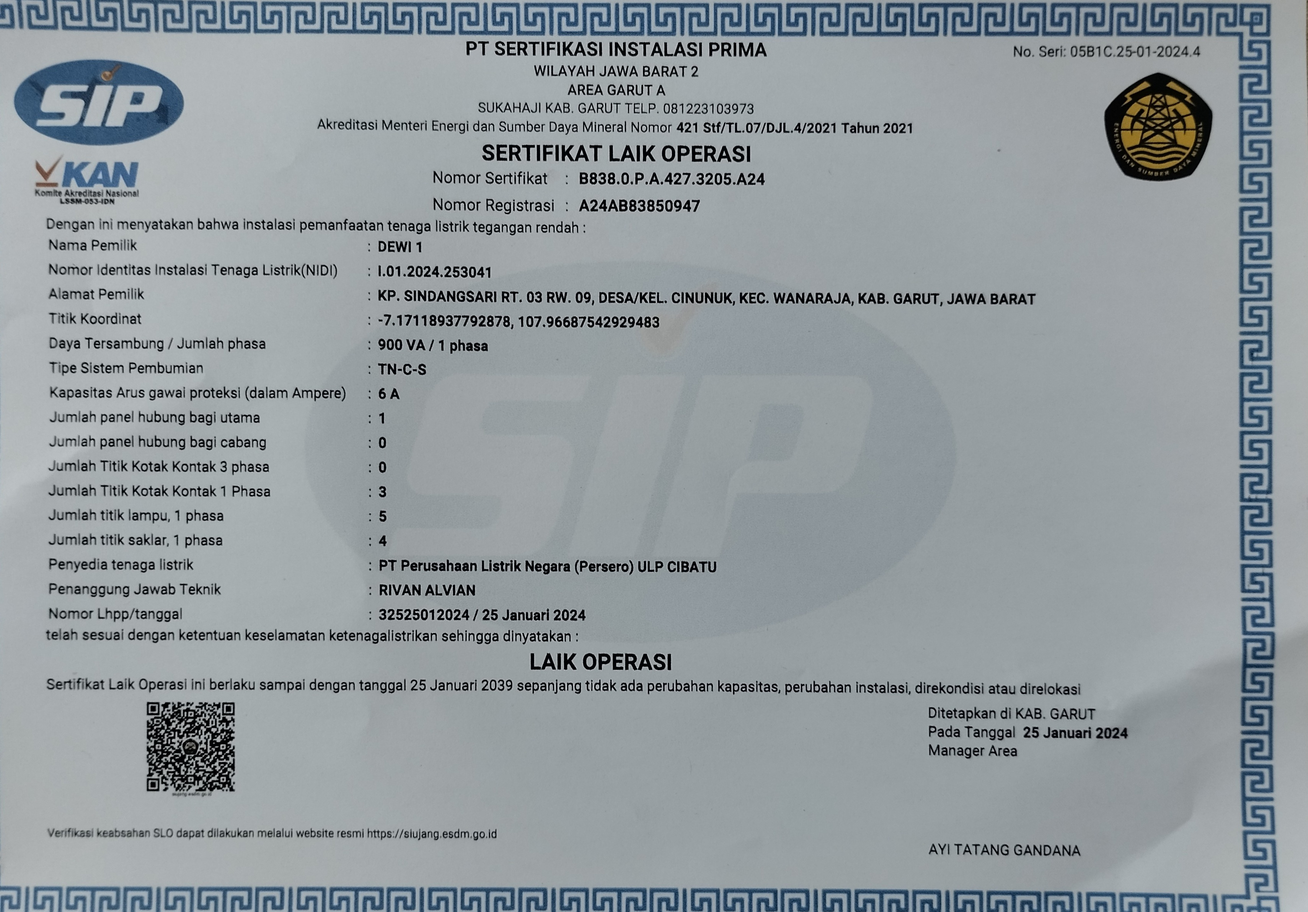
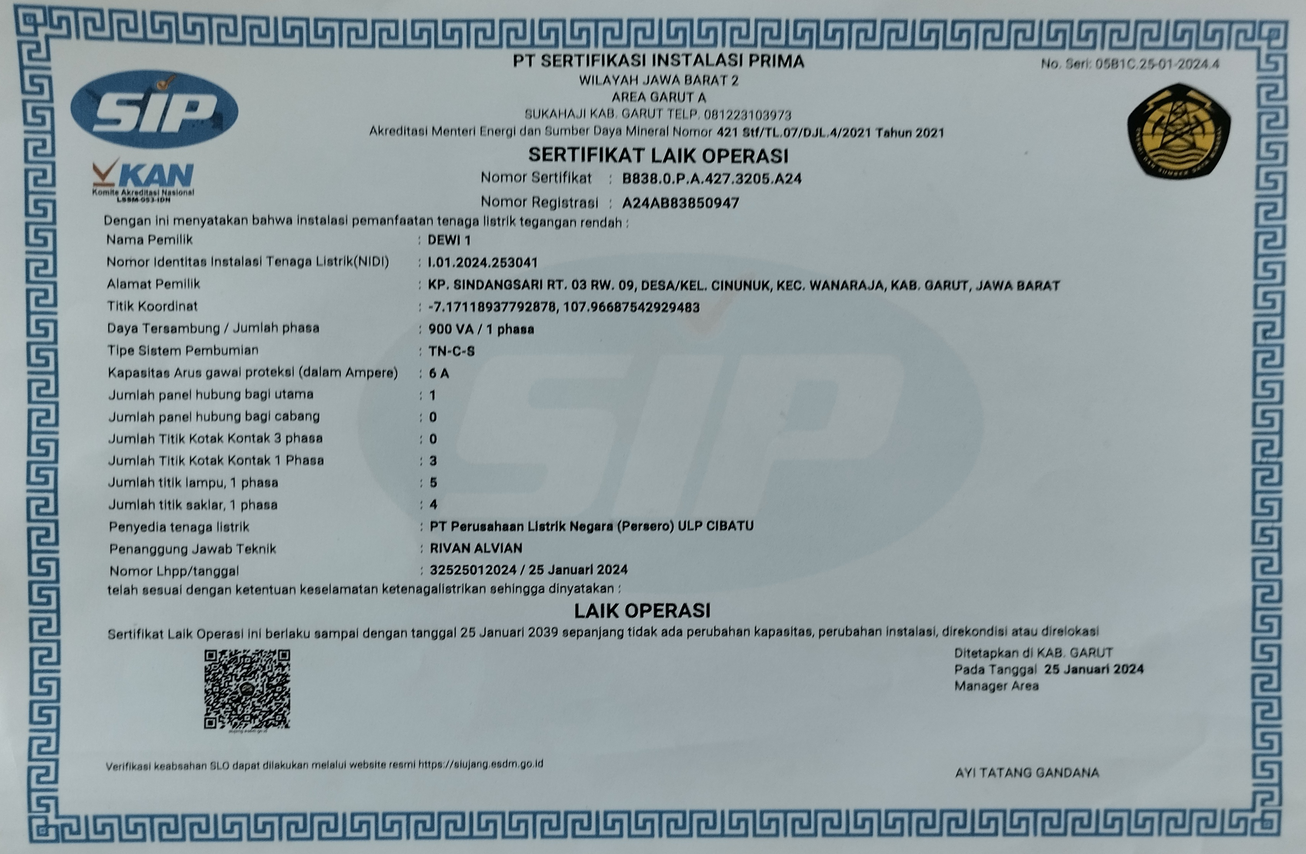
feat: succeded to enhance the accuracy prespective correction

Changed region(s): [[0.0, 0.0, 1.0, 1.0]]

diff --git a/src/PerspectiveCorrection.py b/src/PerspectiveCorrection.py
@@ -1,6 +1,34 @@
 import cv2
 import numpy as np
 
+# Resize image by width
+def resize_img_byW(width, img):
+    # Define the desired width or height
+    desired_width = width  # You can set your desired width
+    # Calculate the corresponding height to maintain the aspect ratio
+    aspect_ratio = img.shape[1] / img.shape[0] #lebar/tinggi
+    desired_height = int(desired_width / aspect_ratio)
+    # Resize the image
+    return cv2.resize(img, (desired_width, desired_height), interpolation=cv2.INTER_LINEAR)
+
+# Resize image by height
+def resize_img_byH(height, img):
+    # Define the desired height or height
+    desired_height = height  # You can set your desired height
+    # Calculate the corresponding height to maintain the aspect ratio
+    aspect_ratio = img.shape[1] / img.shape[0]
+    desired_width = int(aspect_ratio*desired_height)
+    # Resize the image
+    return cv2.resize(img, (desired_width, desired_height), interpolation=cv2.INTER_LINEAR)
+
+def resize(scale, img):
+    if(img.shape[0]>img.shape[1]):
+        img = resize_img_byH(scale, img)
+    else:
+        img = resize_img_byW(scale, img)
+    return img
+
+
 def drawline(lines, image):
     for line in lines:
         rho, theta = line[0]
@@ -147,12 +175,15 @@ def correctPerspective(image, points):
     hB = np.sqrt((tr[0]-br[0])**2 + (tr[1]-br[1])**2 )
     maxH = max(int(hA), int(hB))
     ds= np.array([[0,0],[maxW-1, 0],[maxW-1, maxH-1],[0, maxH-1]], dtype="float32")
-    transformMatrix = cv2.getPerspectiveTransform(r,ds)
+    transformMatrix = cv2.getPerspectiveTransform(r,ds,)
     scan = cv2.warpPerspective(image, transformMatrix, (maxW, maxH))
 
     return scan
 
-def process(image):
+def process(raw_image):
+    # 0. resize
+    image = resize(800, raw_image)
+
     # 1. Convert to grayscale
     gray = cv2.cvtColor(image, cv2.COLOR_BGR2GRAY)
     kernel = np.ones((5,5),np.uint8)
@@ -160,24 +191,37 @@ def process(image):
     blur =cv2.GaussianBlur(dilation,(5,5),0)
     blur= cv2.erode(blur,kernel,iterations =5)
 
-    # # 3. Canny edge detection
+    # 3. Canny edge detection
     threshold, _ = cv2.threshold(gray, 0, 255, cv2.THRESH_BINARY + cv2.THRESH_OTSU)
     high = threshold
     low = int(high / 2)
     canny = cv2.Canny(blur, low, high, 1)
+    cv2.imshow("canny", canny)
+    cv2.waitKey(0)
 
-
-    # # 4. Hough line detection
+    # 4. Hough line detection
     lines = houghline(canny)
     points = points_inter(lines)
+    img = drawline(lines,image)
+    cv2.imshow("line", img)
+    cv2.waitKey(0)
     best = find_best_quadrilateral(points)
+    
+    # Normalization to init scale
+    ratioH = raw_image.shape[0]/image.shape[0]
+    ratioW = raw_image.shape[1]/image.shape[1]
+    best[:, 0] *= ratioW
+    best[:, 1] *= ratioH
 
-    scan = correctPerspective(image, best)
-
+    # Perspective correction
+    scan = correctPerspective(raw_image, best)
+    
     return scan
 
-image = cv2.imread("assets/image/test5.jpg")
-scan = process(image)
-# rotated = cv2.rotate(scan, cv2.ROTATE_90_CLOCKWISE)
-# rotated = cv2.rotate(rotated, cv2.ROTATE_90_CLOCKWISE)
-cv2.imwrite("assets/correctionImage/1.jpg", scan)
+# image = cv2.imread("assets/image/test7.jpg")
+# scan = process(image)
+# cv2.imshow("scan",scan)
+# cv2.waitKey(0)
+# # rotated = cv2.rotate(scan, cv2.ROTATE_90_CLOCKWISE)
+# # rotated = cv2.rotate(rotated, cv2.ROTATE_90_CLOCKWISE)
+# cv2.imwrite("assets/correctionImage/4.jpg", scan)

diff --git a/src/main.py b/src/main.py
@@ -1,44 +1,26 @@
 from paddleocr import PaddleOCR, draw_ocr
-from PerspectiveCorrection import process
+from PerspectiveCorrection import preprocess
 import matplotlib.pyplot as plt
-# %matplotlib inline
 import cv2
 
+# Activate the OCR machine
 ocr = PaddleOCR(use_angle_cls=True, lang="en", use_gpu=False)
 
-# Resize image by width
-def resize_img_byW(width, img):
-    return img.resize((width, int(img.height * (width / img.width))))
+# Load the image
+image = cv2.imread("assets/image/test7.jpg")
 
-# Resize image by height
-def resize_img_byH(height, img):
-   return img.resize((int(img.width * (height / img.height)), height))
+# Preprocces the image
+scan = preprocess(image)
+cv2.imwrite("assets/correctionImage/4.jpg", scan)
 
-
-image = cv2.imread("assets/image/test6.jpg")
-scan = process(image)
-cv2.imwrite("assets/correctionImage/2.jpg", scan)
-# img = "test5.jpg"
-# im = cv2.imread(img)
-# im = resize_img_byW(1000, im)
-# cv2.imshow("image",im)
-# cv2.waitKey(0)
-
+# Procces the image into OCR machine
 result = ocr.ocr(scan, cls=True)
 
-for line in result[0]:
-  print(line, "\n")
-# print(result)
-  
-
-
-# # Display the result
+# Display the result
 image = cv2.cvtColor(scan, cv2.COLOR_BGR2RGB)
-# image = resize_img_byH(1000,image)
 boxes = [line[0] for line in result[0]]
 txts = [line[1][0] for line in result[0]]
 scores = [line[1][1] for line in result[0]]
-# # print(scores)
 im_show = draw_ocr(image, boxes, txts, scores, font_path='assets/font/Roboto-Regular.ttf')
 plt.figure(figsize=(15, 8))
 plt.imshow(im_show)
